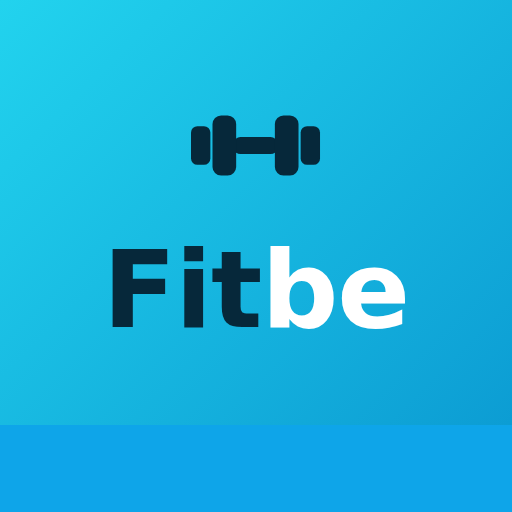
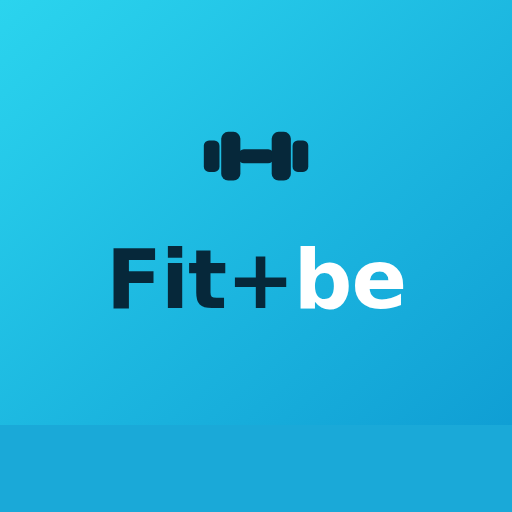
feat(fitness): "Fit+be" adı + ikon düzeltme + otomatik güncelleme
- Marka adı her yerde "Fit+be" (arada artı): topbar, login, splash,
  onboarding, başlık, manifest.
- PWA ikonu yeniden tasarlandı (dumbbell + Fit+be, güvenli alana ortalı,
  kırpılma/zoom sorunu giderildi). 192/180 ikonlar 512'den kaliteli küçültüldü.
- Otomatik güncelleme: her build'de version.json üretilir; uygulama açıkken
  yeni sürümü algılar, kullanıcıya bildirir ve otomatik yeniler (online-only).

Claude-Session: https://claude.ai/code/session_01RMrQwtQgW3igamwRSr6QKH

Changed region(s): [[0.2188, 0.4688, 0.8125, 0.6562], [0.375, 0.2188, 0.625, 0.375]]

diff --git a/fitness/src/App.jsx b/fitness/src/App.jsx
@@ -82,6 +82,29 @@ export default function App() {
     dbSet("programs", { list: programs, activeId });
   }, [programs, activeId, user]);
 
+  // --- Otomatik güncelleme: yeni sürüm yayınlandıysa algıla, bildir, yenile ---
+  useEffect(() => {
+    let triggered = false;
+    async function check() {
+      if (triggered) return;
+      try {
+        const r = await fetch("/version.json?ts=" + Date.now(), { cache: "no-store" });
+        if (!r.ok) return;
+        const j = await r.json();
+        if (j && j.v && typeof __BUILD_ID__ !== "undefined" && j.v !== __BUILD_ID__) {
+          triggered = true;
+          setToast("Yeni sürüm yüklendi, güncelleniyor…");
+          setTimeout(() => window.location.reload(), 1800);
+        }
+      } catch (e) {}
+    }
+    check();
+    const iv = setInterval(check, 90000);
+    const onVis = () => { if (document.visibilityState === "visible") check(); };
+    document.addEventListener("visibilitychange", onVis);
+    return () => { clearInterval(iv); document.removeEventListener("visibilitychange", onVis); };
+  }, []);
+
   function flash(msg) {
     setToast(msg);
     setTimeout(() => setToast(""), 1800);
@@ -141,7 +164,7 @@ export default function App() {
       {splash && <Splash hiding={splashHide} />}
       {profileLoaded && !profile && <Onboarding onSave={saveProfile} />}
       <div className="topbar">
-        <div className="brand">Fit<span>be</span></div>
+        <div className="brand">Fit<span>+be</span></div>
         <button className="btn-ghost" onClick={() => setTab("profile")}>👤</button>
       </div>
 

diff --git a/fitness/vite.config.js b/fitness/vite.config.js
@@ -1,6 +1,19 @@
 import { defineConfig } from 'vite'
 import react from '@vitejs/plugin-react'
+import { writeFileSync } from 'fs'
+
+// Her build'de değişen sürüm kimliği — otomatik güncelleme tespiti için.
+const BUILD_ID = String(Date.now())
 
 export default defineConfig({
-  plugins: [react()],
+  define: { __BUILD_ID__: JSON.stringify(BUILD_ID) },
+  plugins: [
+    react(),
+    {
+      name: 'write-version',
+      closeBundle() {
+        try { writeFileSync('dist/version.json', JSON.stringify({ v: BUILD_ID })) } catch (e) {}
+      },
+    },
+  ],
 })

diff --git a/fitness/index.html b/fitness/index.html
@@ -8,8 +8,8 @@
     <link rel="apple-touch-icon" href="/apple-touch-icon.png" />
     <meta name="apple-mobile-web-app-capable" content="yes" />
     <meta name="apple-mobile-web-app-status-bar-style" content="black-translucent" />
-    <meta name="apple-mobile-web-app-title" content="Fitbe" />
-    <title>Fitbe — Antrenman & Beslenme</title>
+    <meta name="apple-mobile-web-app-title" content="Fit+be" />
+    <title>Fit+be — Antrenman & Beslenme</title>
   </head>
   <body>
     <div id="root"></div>

diff --git a/fitness/src/components/Login.jsx b/fitness/src/components/Login.jsx
@@ -26,7 +26,7 @@ export default function Login() {
       <div className="figbox" style={{ width: 160 }}>
         <ExerciseAnimation type="squat" exId="squat" size={130} />
       </div>
-      <h1 style={{ fontSize: 26 }}>Fit<span style={{ color: "var(--accent)" }}>be</span></h1>
+      <h1 style={{ fontSize: 26 }}>Fit<span style={{ color: "var(--accent)" }}>+be</span></h1>
       <p style={{ color: "var(--muted)", marginTop: -6, textAlign: "center" }}>
         Antrenman programını oluştur, beslenmeni planla.
       </p>

diff --git a/fitness/src/components/Onboarding.jsx b/fitness/src/components/Onboarding.jsx
@@ -6,7 +6,7 @@ export default function Onboarding({ onSave }) {
   return (
     <div className="onboarding">
       <div className="onboarding-inner">
-        <div className="brand" style={{ fontSize: 26, textAlign: "center" }}>Fit<span style={{ color: "var(--accent)" }}>be</span></div>
+        <div className="brand" style={{ fontSize: 26, textAlign: "center" }}>Fit<span style={{ color: "var(--accent)" }}>+be</span></div>
         <h2 style={{ textAlign: "center", marginTop: 6 }}>Seni tanıyalım</h2>
         <p style={{ color: "var(--muted)", textAlign: "center", marginTop: -2, marginBottom: 6 }}>
           Sana uygun <b style={{ color: "var(--accent)" }}>otomatik programları</b> önerebilmemiz için.

diff --git a/fitness/src/components/Splash.jsx b/fitness/src/components/Splash.jsx
@@ -11,7 +11,7 @@ export default function Splash({ hiding }) {
         <rect x="20" y="21" width="9" height="18" rx="3" />
         <rect x="71" y="21" width="9" height="18" rx="3" />
       </svg>
-      <div className="splash-word">Fit<span>be</span></div>
+      <div className="splash-word">Fit<span>+be</span></div>
       <div className="splash-sub">Antrenman & Beslenme</div>
     </div>
   );